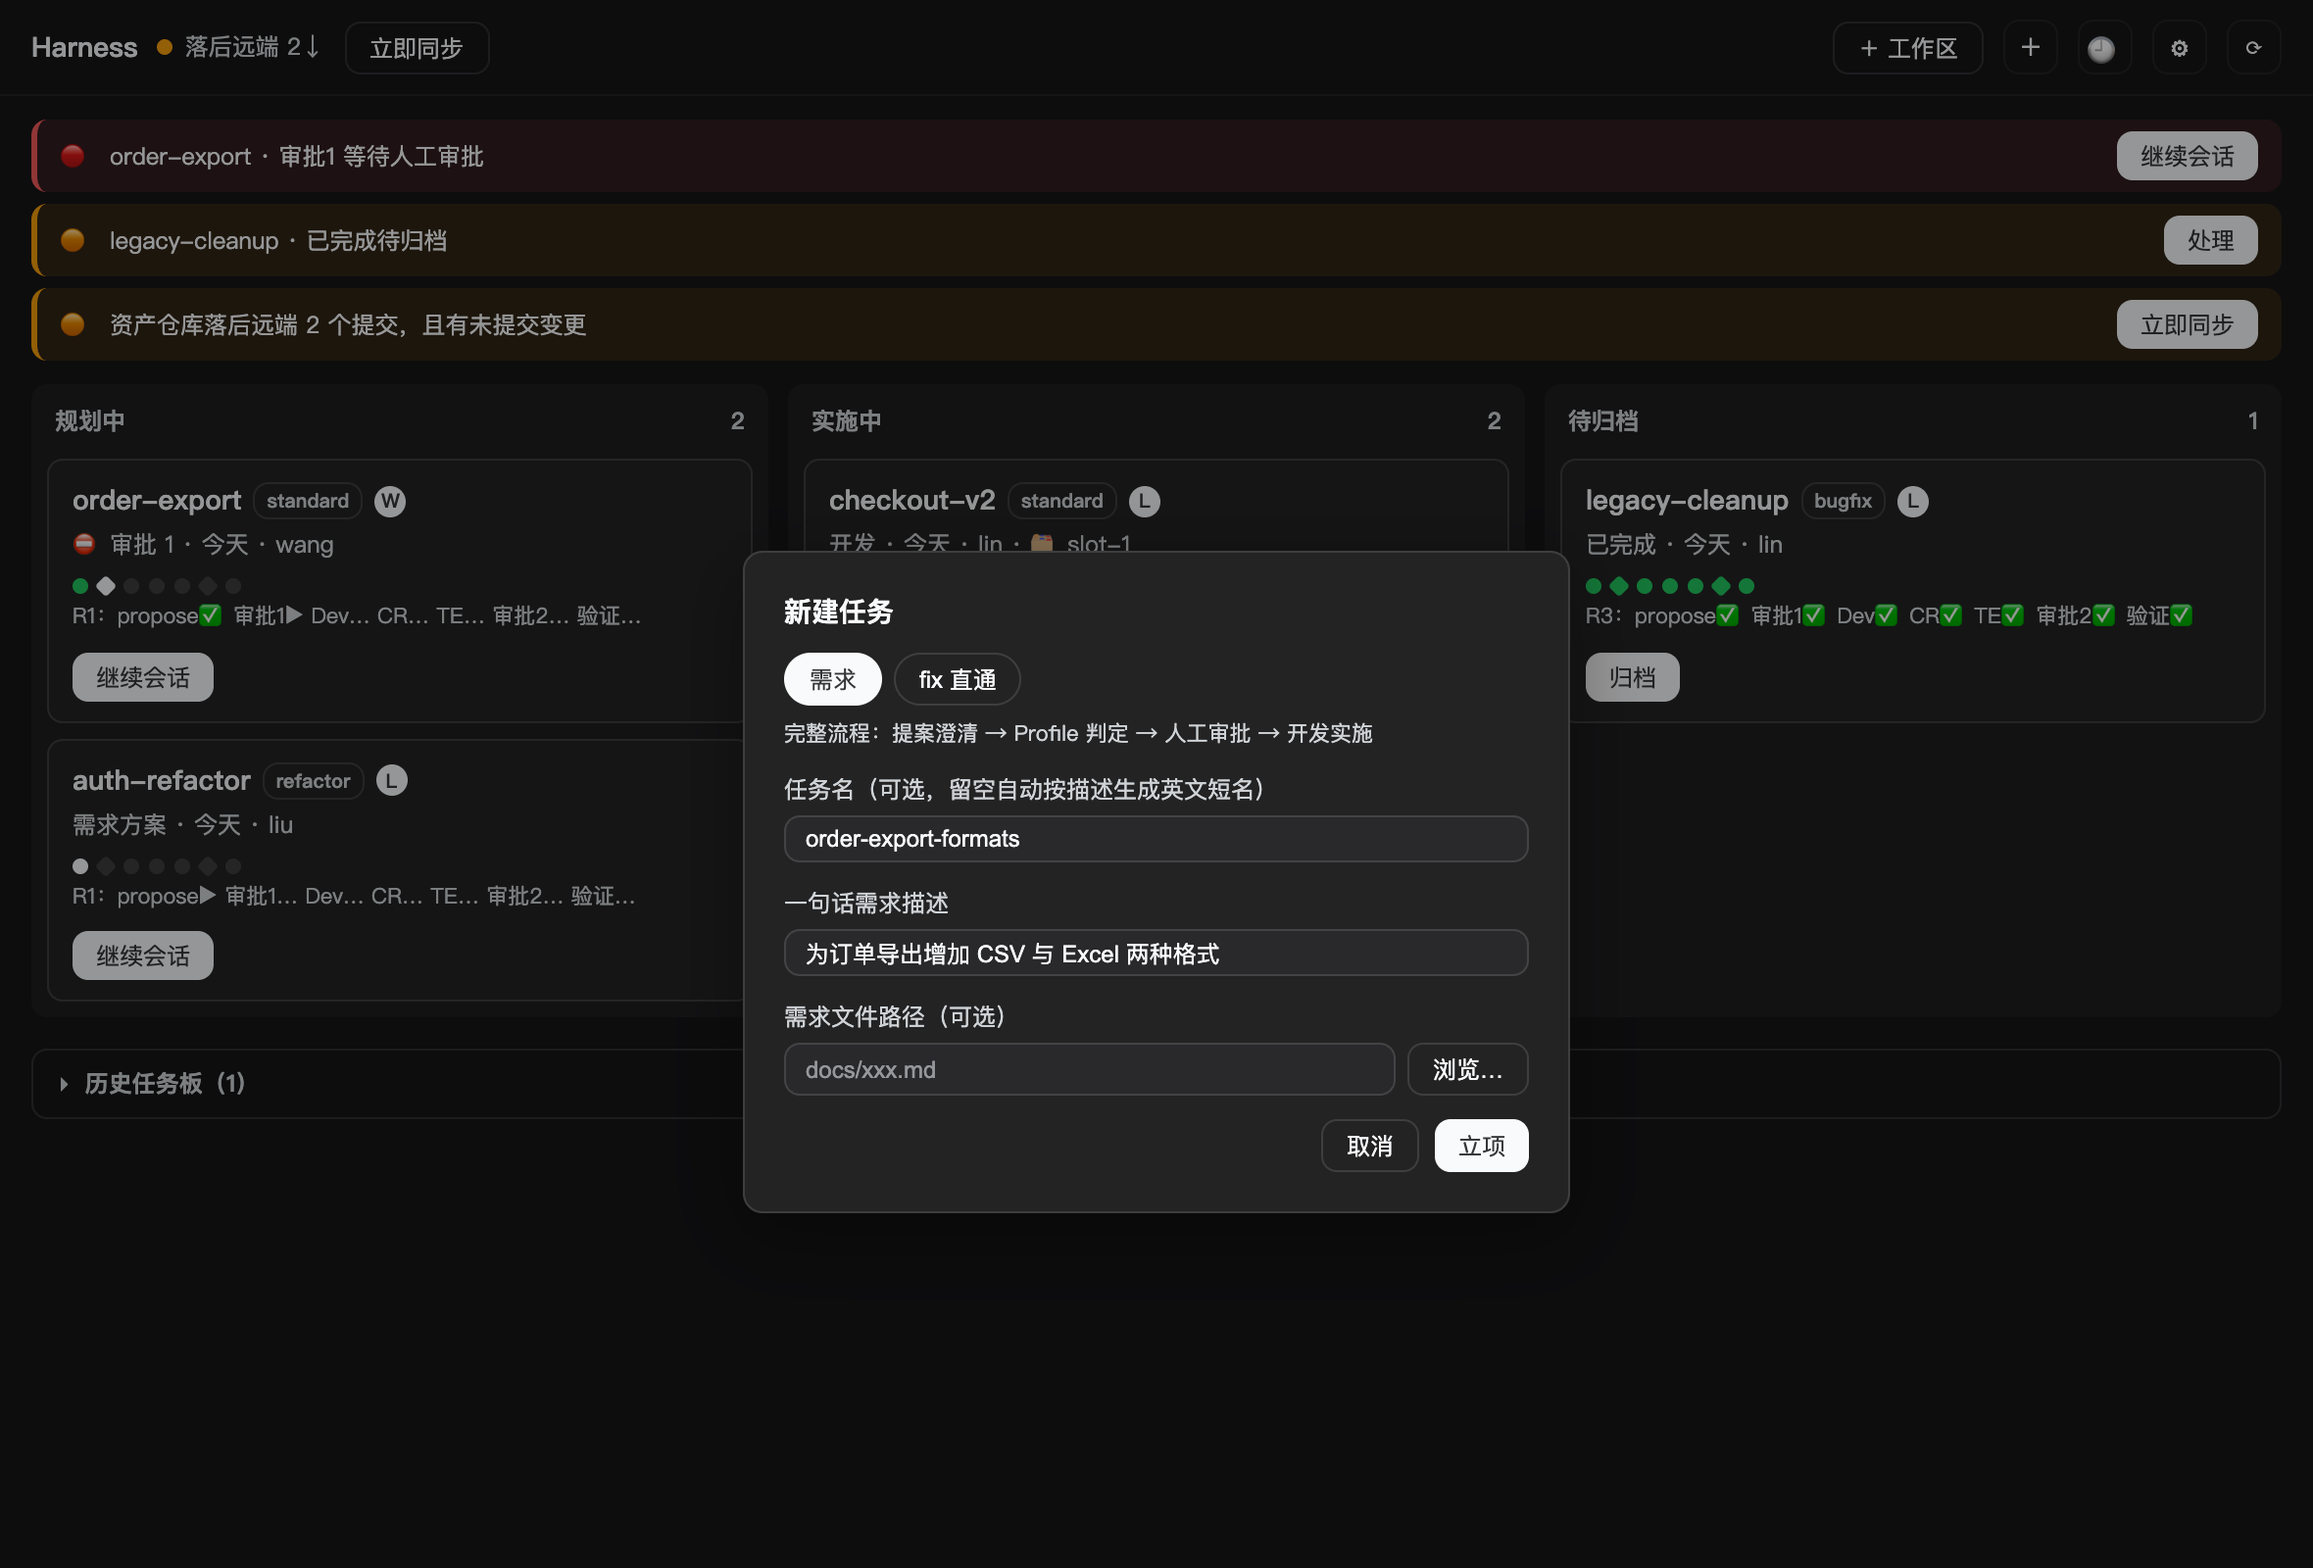
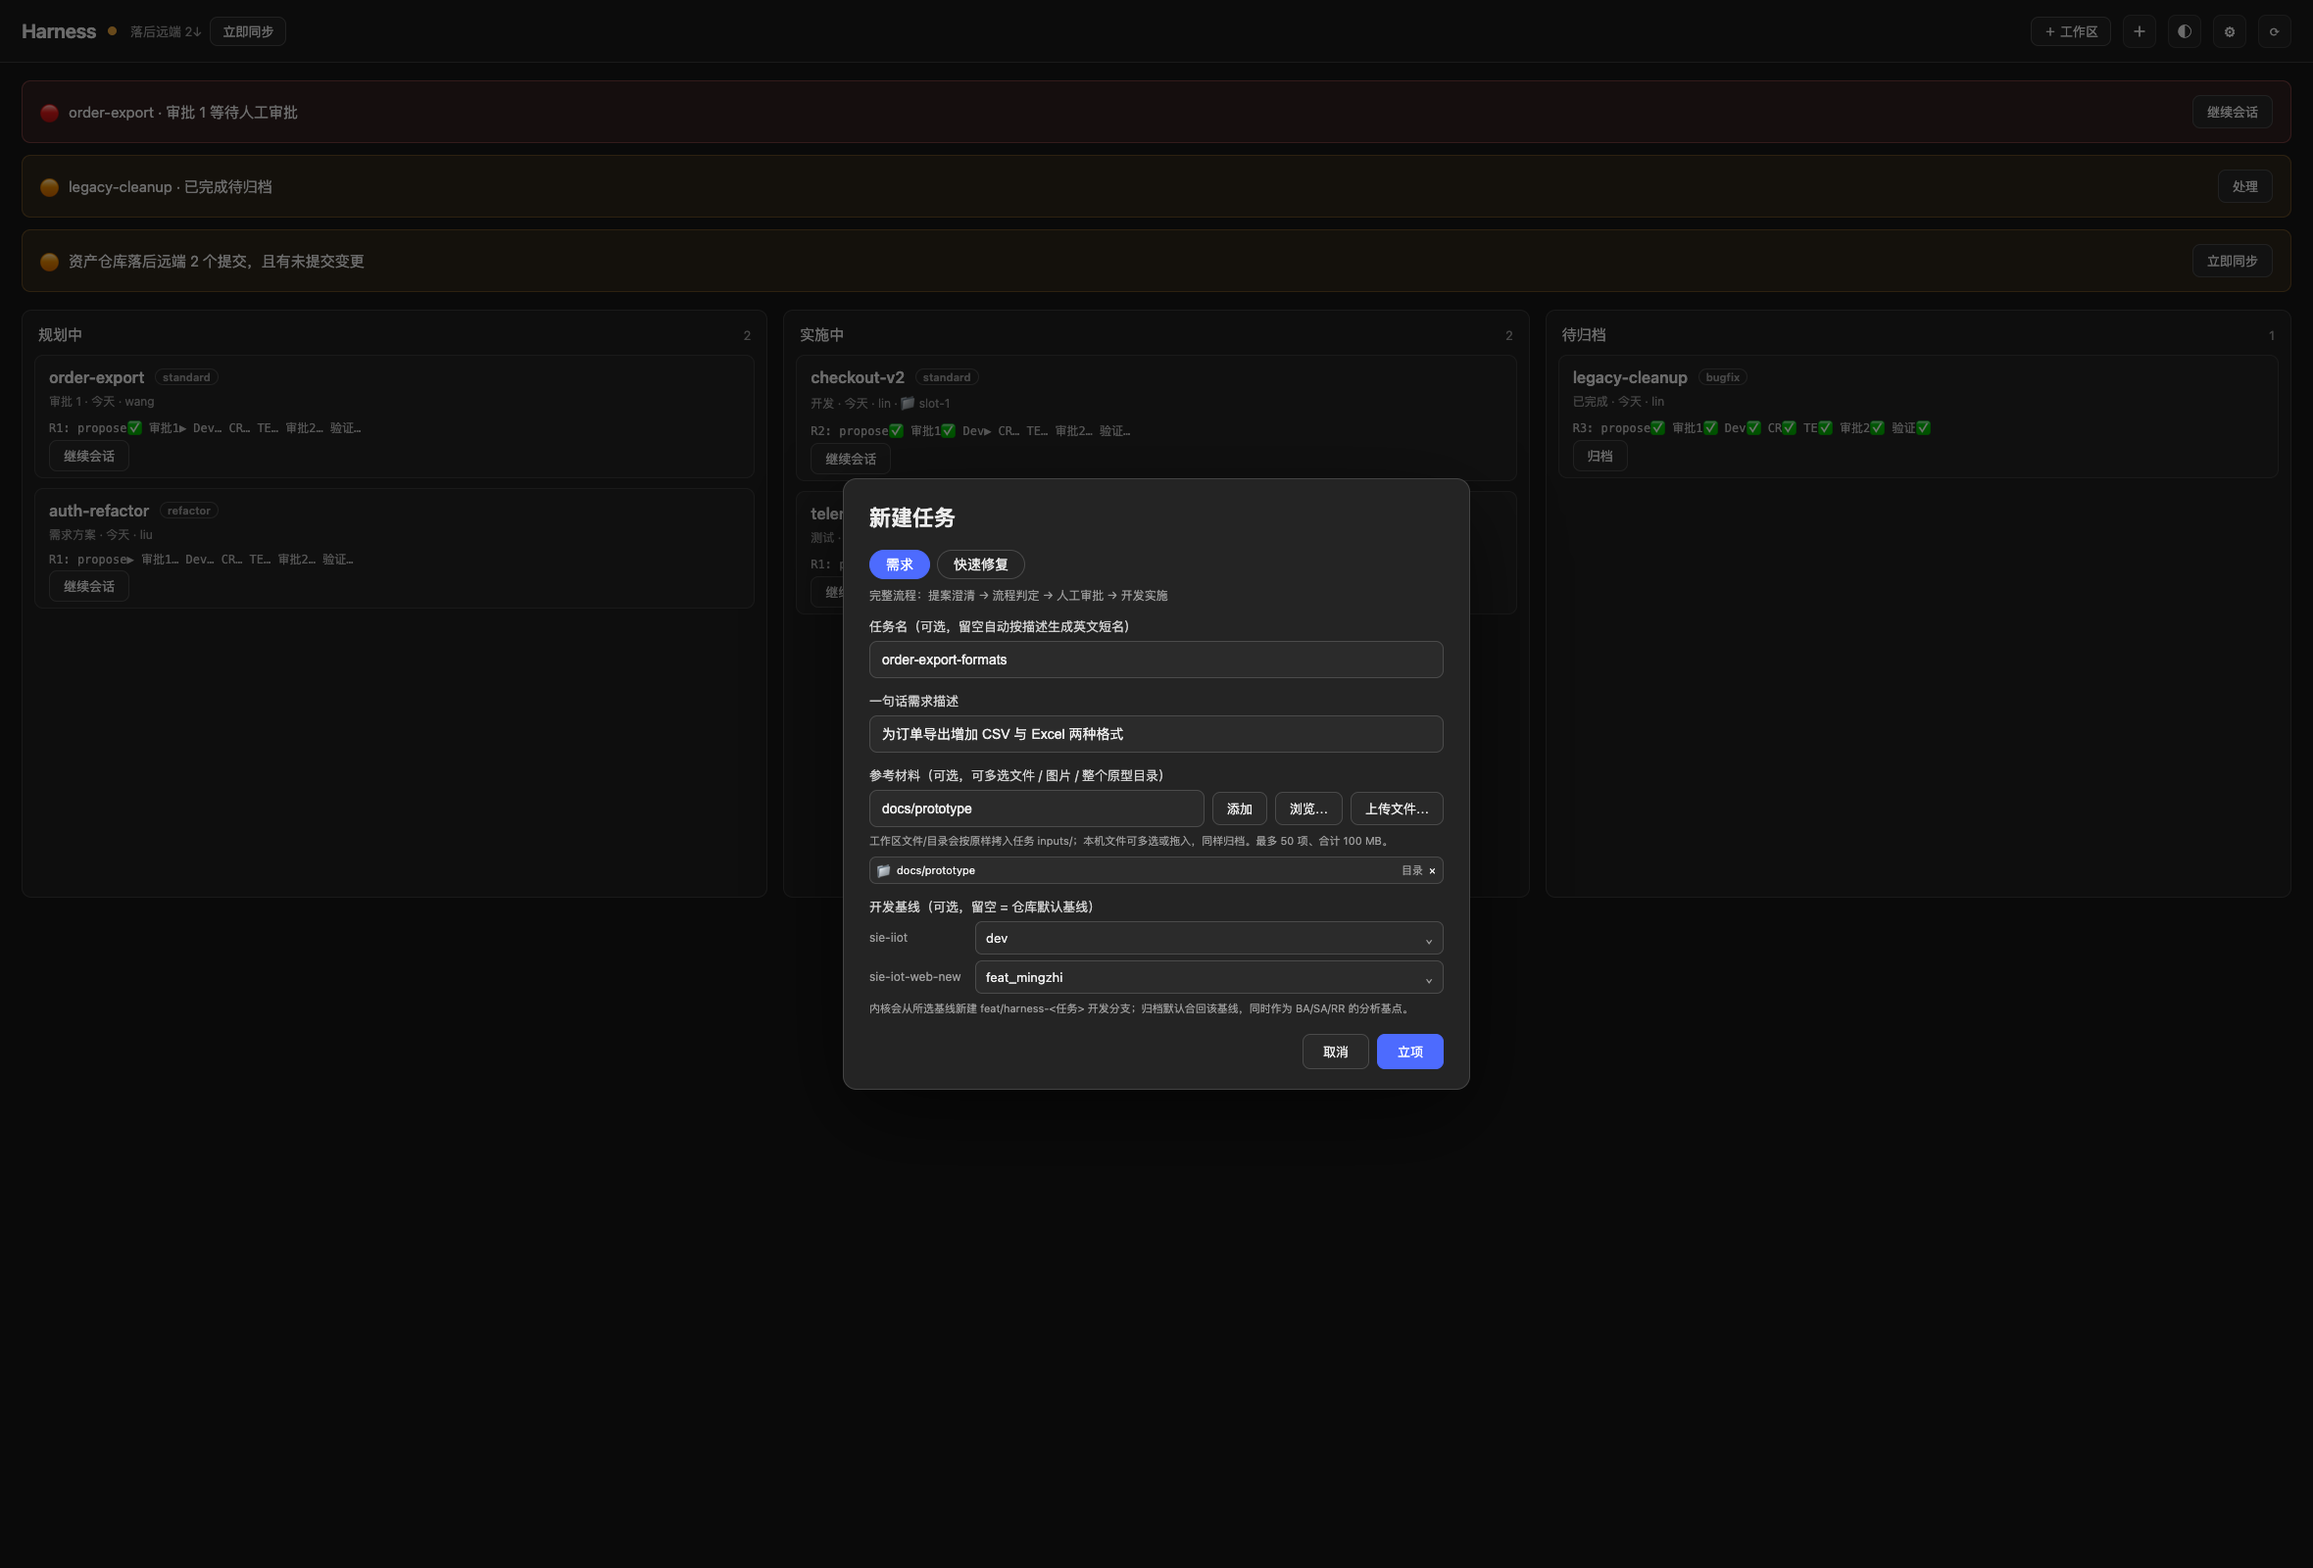
docs: 更新立项说明与截图并整理发布协作手册

diff --git a/README.md b/README.md
@@ -91,14 +91,15 @@ orchestration** probes the repositories and generates the docs and indexes descr
 
 ### 2. Click ＋ to create a task
 
-- choose **Requirement** or **Fix**
+- choose **Requirement** or **Quick fix**
 - write one sentence; the task name can stay empty and is generated from the description
-- optionally attach multiple reference materials: files, images, or whole prototype folders (including uploads from this machine). They are copied into the task `inputs/` with an index, and the PM reads the index and inspects each image
+- optionally attach multiple reference materials: workspace files, images, whole prototype folders, or uploads/drag-and-drop from this machine. They are copied into the task `inputs/` with an index, and the PM reads the index and inspects each image
+- optionally choose a **development base** per repository; Harness Kit creates `feat/harness-<task>` from it and uses the same branch as the analysis base and archive merge target
 
 Creating the task opens a dedicated session: requirement mode starts from the proposal, fix mode
 starts from the defect document and the quality gate.
 
-![New task: requirement or fix shortcut, one sentence to start](docs/assets/ui-new-task.png)
+![New task: requirement/fix, multiple reference materials and per-repository development base (illustration of current fields)](docs/assets/ui-new-task.png)
 
 ### 3. Work from the panel
 
@@ -114,7 +115,8 @@ starts from the defect document and the quality gate.
 
 ![War room: needs-you list, planning/implementing/to-archive lanes and history board](docs/assets/ui-war-room.png)
 
-> Screenshots use a sample workspace (`acme-platform`), not real project data.
+> The task-dialog image is an illustration of the current fields; the other screenshots use a sample
+> workspace (`acme-platform`), not real project data.
 
 > **Approvals are written by a human; the panel only reminds.** Approval 1 is recorded in
 > `proposal.md`, the quality-gate decision in `bugfix.md`. That is deliberate: it keeps approvals

diff --git a/README.zh-CN.md b/README.zh-CN.md
@@ -79,11 +79,12 @@ Harness Kit 不只是"加流程"。创建完成后点「启动初始化编排」
 
 - 选「需求」或「快速修复」
 - 写一句话描述；任务名可以留空，自动生成英文短名
-- 可选附多份参考材料：多个文件、图片或整个原型目录；本机文件也可直接上传。立项时统一拷入任务 `inputs/` 并生成索引，PM 会先读索引再逐张看原型图
+- 可选附多份参考材料：工作区文件、图片、整个原型目录，或从本机多选/拖入上传。立项时统一拷入任务 `inputs/` 并生成索引，PM 会先读索引再逐张看原型图
+- 可选按仓选择**开发基线**；内核会从该基线新建 `feat/harness-<任务>`，它同时是 BA/SA/RR 的分析基点和归档合入目标
 
 点「立项」后会自动打开一个**专属会话**开始执行：需求模式从 proposal 起草开始，fix 模式从缺陷文档与质量门开始。
 
-![新建任务：需求或快速修复，一句话描述即可立项](docs/assets/ui-new-task.png)
+![新建任务：需求/快速修复、多参考材料与开发基线（当前字段示意图）](docs/assets/ui-new-task.png)
 
 ### 3. 回到面板推进
 
@@ -97,7 +98,7 @@ Harness Kit 不只是"加流程"。创建完成后点「启动初始化编排」
 
 ![作战室：需要你、规划/实施/待归档三列与历史任务板](docs/assets/ui-war-room.png)
 
-> 截图使用示例工作区（`acme-platform`），不是真实项目数据。
+> 新建任务图为当前字段示意图；其余截图使用示例工作区（`acme-platform`），不是真实项目数据。
 
 > **审批由人写下，面板只提醒、不代写**——审批 1 写进 `proposal.md`，质量门裁决写进 `bugfix.md`。这是刻意设计，防止审批流于形式。
 >

diff --git a/CHANGELOG.md b/CHANGELOG.md
@@ -12,6 +12,11 @@ All notable changes to Harness Kit are documented here. The format follows
   直接建工作区的顺序；删除后文重复的安装章节，保留更新的版本检查与运行要求。
 - README 补充面板「拉取 / 提交并同步」、`--base` 任务分支基点与 clean 主树自动切换、
   `/hk` 统一入口和 fix 直通说明；命令注册 hint 同步增加 `--base`。
+- 立项说明同步当前界面：需求/快速修复、多参考材料、本机上传与按仓开发基线；DETAIL 同步；
+  旧版立项截图替换为当前字段示意图，并从市场 `screenshots.json` 移除该示意图，市场只保留
+  真实界面截图。
+- `docs/PUBLISHING.md` 修正重复章节号，把本地 publish 段落改为 tag + CI 发布，并新增
+  GitHub 协作者、main/tag ruleset、Actions 与 secret scanning 设置清单。
 - 任务显式指定开发基线（`--base`）且主工作树干净时，即使当前停在 `test` 等非基线
   分支，`/hk-apply` 也会自动切到任务基线并创建任务分支；创建前先 fetch 该基线，
   本地基线只落后时直接用 `origin/<base>` 的最新提交，本地领先/分叉时保留本地基点。

diff --git a/docs/DETAIL.en.md b/docs/DETAIL.en.md
@@ -27,7 +27,9 @@ the plan before anything is written.
    Initialization runs in the background and survives a refresh; then start the initialization
    orchestration to generate docs and indexes.
 2. **Create a task**: ＋ → Requirement or Quick fix → one sentence (the task name can stay empty).
-   A dedicated session opens automatically.
+   Add multiple workspace files/images/prototype folders or upload from this machine; they are copied
+   into `inputs/`. Optionally choose a per-repository development base (also the analysis base and
+   archive merge target). A dedicated session opens automatically.
 3. **Work from the panel**: cards move between Planning / Implementing / To archive. **Needs you**
    lists approvals, archives and sync problems; **Continue session** jumps to the task session.
    Archived work moves to the history board; 🕘 opens Team; ⚙ opens Workspace (source branches,
